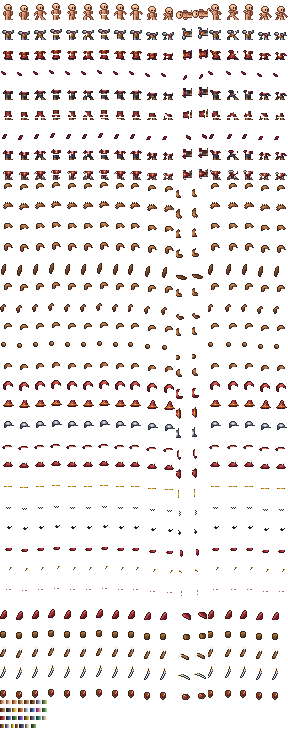
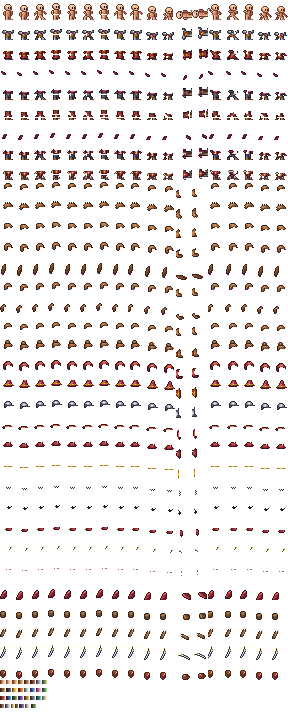
WIP: checkpoint in-progress agent work
Unreviewed snapshot of work that is still being written, saved so the
ephemeral session cannot lose it. The tree may not compile here.

Claude-Session: https://claude.ai/code/session_014rULHPkGjzQQ6LNezv9YSN

diff --git a/art-drafts/avatars/2-original-base/generate.py b/art-drafts/avatars/2-original-base/generate.py
@@ -58,7 +58,7 @@ FIXED = {
     "metal": ramp("2c2e38 525867 838a98 b4bac4 e6e9ee"),
     "gold": ramp("7a4b12 c48d22 f0cf55"),
     "wood": ramp("3a2516 6b4a2a 9a7040"),
-    "darkcloth": ramp("1d1b24 2e2b38 433f50 5b5669 777188"),
+    "darkcloth": ramp("221f2c 37334a 4f4a63 6a647f 8a849f"),
     "whitecloth": ramp("4e4446 8f8682 c4bcb0 e4ded2 f8f6ef"),
     "leafcloth": ramp("1f2e1c 34492b 4c6838 6a8a4c 8fab68"),
     "steelcloth": ramp("2c2e38 525867 838a98 b4bac4 e6e9ee"),
@@ -247,7 +247,9 @@ def layers_for(frame_index, look, apply_clip=True):
     out["outfit"] = to_image(cells, colourer(look, "outfit")) if look.job else Image.new("RGBA", (FW, FH))
     hat = P.HEADGEAR[look.hat]
     clip = hat["clip"] if (apply_clip and hat["rows"]) else None
-    out["hair_front"] = simple_layer(hair["front"], hx - 2, hy - 2, look, clip)
+    lift = hair.get("lift", 0)
+    out["hair_front"] = simple_layer(hair["front"], hx - 2, hy - 2 - lift, look,
+                                     None if clip is None else clip + lift)
     out["face"] = simple_layer(P.FACE[look.face], hx, hy, look)
     out["hat"] = simple_layer(hat["rows"], hx - 2, hy - 2 - hat["lift"], look)
     return out

diff --git a/art-drafts/avatars/2-original-base/parts.py b/art-drafts/avatars/2-original-base/parts.py
@@ -240,22 +240,19 @@ HAIR = {
         ),
     },
     "bun": {
+        "lift": 2,
         "front": (
-            "............",
-            "....hhhh....",
-            "...hjkklh...",
-            "..hjkkllkh..",
-            "..hjjkkkjh..",
+            "....hhh.....",
+            "...hklkh....",
+            "...hjkjh....",
+            "...hhhhhh...",
+            "..hjkllkkh..",
+            "..hjkkkkjjh.",
+            "..hjjjjhjh..",
             "..hjh.......",
             "..hh........",
         ),
-        "back": (
-            "..hhh.........",
-            ".hkllh........",
-            ".hjklh........",
-            ".hijjh........",
-            "..hhh.........",
-        ),
+        "back": (),
     },
 }
 

diff --git a/docs/inn.md b/docs/inn.md
@@ -82,19 +82,30 @@ Windows x64에서 JDK 21을 지정한 뒤 저장소 루트에서 실행한다.
 
 ## 웹 배포
 
-공개 저장소의 `main`에 푸시하면 GitHub Actions가 웹 여관과 던전 런타임을 빌드해 Sites에 게시합니다. 브라우저에서 제공하는 여관의 소스는 `web-client/play`에 있습니다.
+공개 저장소의 `main`에 푸시하면 GitHub Actions가 서버를 테스트하고 던전 런타임(`html:dist`)을 빌드한 뒤, `scripts/stage-web-client.mjs`로 웹 여관과 함께 `server/public`에 배치하고 `wrangler deploy`로 Cloudflare에 배포합니다. 브라우저에서 제공하는 여관의 소스는 `web-client/play`에 있습니다. 정적 파일은 Worker를 거치지 않고 제공됩니다.
+
+| 경로 | 내용 |
+| --- | --- |
+| `/play/` | 여관 페이지. `<base>`가 아래 버전 폴더를 가리킵니다. |
+| `/play/client/<커밋>-<서명>/` | 여관 모듈과 그림, 간이 전투 런타임 |
+| `/play/original/manifest.json`, `catalogue/<버전>.json` | 원본 런타임의 현재 버전과 파일 목록 |
+| `/play/original/runtime/<버전>/` | `html/build/dist/web` |
+
+배포마다 직전 배포의 버전 폴더를 한 번 더 포함해, 배포 전에 연 페이지도 파일을 계속 받을 수 있습니다.
+
+처음 배포할 때는 저장소 Secrets에 `CLOUDFLARE_API_TOKEN`(Workers Scripts 편집 권한)과 `CLOUDFLARE_ACCOUNT_ID`를 등록합니다. 첫 배포가 끝나면 Wrangler가 알려 주는 `workers.dev` 주소를 저장소 변수 `COOP_PUBLIC_ORIGIN`(배포 후 점검), `README.md`의 플레이 링크, `inn-client/src/main/resources/inn-origin.txt`에 적습니다. 직접 배포하려면 빌드와 배치 뒤 `server`에서 `npx wrangler deploy`를 실행합니다.
 
 [웹 배포 실행 기록](https://github.com/kimyc3825/Co-Op-Pixel-Dungeon/actions/workflows/deploy-web.yml)에서 배포가 완료됐는지 확인할 수 있습니다. Windows 패키지는 [GitHub Releases](https://github.com/kimyc3825/Co-Op-Pixel-Dungeon/releases)에 게시합니다.
 
 ## 네트워크와 전투
 
-새 클라이언트는 여관 입장 시 배치 ID와 시작 좌표를 보냅니다. Sites Worker와 D1이 위치, 채팅, NPC 상호작용 알림과 프로필 옵션 ID를 중계하고 파티 매칭, 링크 인증과 WebRTC 시그널링을 맡습니다. 한 여관 안에서 같은 던전 프로토콜의 참가자끼리 매칭합니다. 구버전은 기본 배치를 사용하는 새 클라이언트와 같은 여관에 접속합니다. Worker 소스와 운영 설정은 별도의 비공개 저장소에서 관리합니다.
+클라이언트는 여관 WebSocket에 접속해 배치 ID와 시작 좌표를 보냅니다. 여관 방의 Durable Object가 위치, 채팅, NPC 상호작용 알림과 프로필 옵션 ID를 모두에게 바로 전하고, 원정 준비와 파티 매칭을 맡습니다. 배치 ID가 다르면 다른 방이며, 한 방에는 32명까지 들어가고 차면 같은 배치의 다음 방으로 넘어갑니다. 한 방 안에서 같은 던전 프로토콜의 참가자끼리 매칭하며, 먼저 모집한 사람이 파티장입니다. 매칭되면 서버가 역할, 시드와 파티장의 옵션을 양쪽에 함께 전합니다. 서버 소스는 [server/](../server/)에 있고, 메시지 형식은 [PROTOCOL.md](../server/PROTOCOL.md)에 있습니다.
 
-파티장의 원본 엔진이 층 생성, 충돌, 적 행동, 피해와 전리품을 한 번 처리합니다. 동료는 층 번호와 순서 번호가 있는 이동·평타 명령을 보내고, 파티장은 확인 번호와 최신 탐색 지형, 위치·체력·행동력, 표시할 전리품을 공유합니다. 층이 바뀌면 이전 층의 명령을 버립니다. 전송은 WebRTC 직접 연결을 사용하며 필요할 때 Worker가 중계합니다. Java 옵션 `-Dnoxac.inn.relayOnly=true`로 개발 중 중계를 시험할 수 있습니다.
+파티장의 원본 엔진이 층 생성, 충돌, 적 행동, 피해와 전리품을 한 번 처리합니다. 동료는 층 번호와 순서 번호가 있는 이동·평타 명령을 보내고, 파티장은 확인 번호와 최신 탐색 지형, 위치·체력·행동력, 표시할 전리품을 공유합니다. 층이 바뀌면 이전 층의 명령을 버립니다. 이 데이터는 파티마다 하나인 연결 WebSocket으로 오가며, 서버가 받은 순서대로 바로 상대에게 넘깁니다. 연결이 잠시 끊기면 20초 동안 다시 접속을 기다리고 그동안의 데이터를 순서대로 모아 둡니다.
 
 동료가 쓰러지면 해당 원정에서 쓰러진 상태를 유지합니다. 어느 쪽이 연결을 종료하면 해당 파티 원정을 종료합니다.
 
-여관은 `/api/v2/inn`, 연결은 `/api/v4/link`를 사용합니다. `GET /api/v4/health`로 연결 API의 준비 상태를 확인할 수 있습니다.
+여관은 `/api/v5/inn`, 연결은 `/api/v5/link` WebSocket을 사용합니다. `GET /api/v5/health`로 서버의 준비 상태를 확인할 수 있습니다. Windows 클라이언트는 아직 이전 HTTP API(`/api/v2`, `/api/v4`)를 사용하므로, 새 프로토콜로 옮기기 전까지 새 서버에 접속할 수 없습니다.
 
 ## 원본과 라이선스
 
